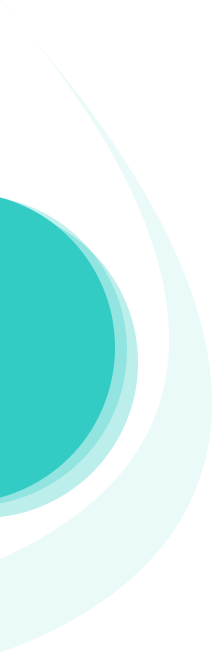
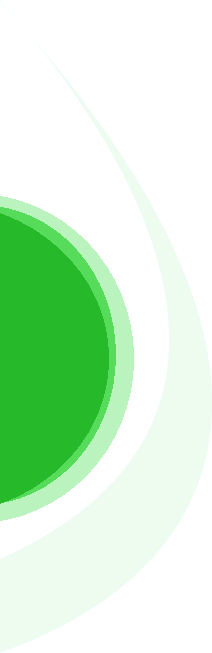
No se que hice

Changed region(s): [[0.0, 0.2757, 0.6509, 0.7963]]

diff --git a/style.css b/style.css
@@ -1,16 +1,16 @@
-
- .footer{
+body {
+    background-color: black;
+}
+.footer{
     display:flex;
     justify-content:space-between; 
-    background-color:rgb(77, 75, 75) ;
+    background-color:rgb(65, 65, 65) ;
     color: white;
- }
- .izquierda{
+}
+.izquierda{
     align-items:flex-start;
     margin-left: 10px;
- }
-
-
+}
 .derecha{
     margin-right: 10px ;
     align-content:flex-end;
@@ -20,10 +20,10 @@
     background-color: rgb(0, 0, 0);
     overflow: hidden;
     border-radius: 8px;
-    border-bottom: 3px solid rgb(0, 56, 49);
+    border-bottom: 3px solid rgb(0, 148, 126);
 }
 .navbar-self a {
-    color: rgb(238, 238, 238);
+    color: rgb(0, 148, 126);
     float: left;
     text-align: center;
     padding: 14px 16px;
@@ -32,15 +32,15 @@
     font-family:cursive;
 }
 .navbar-self a:hover {
-    background-color: rgb(0, 77, 66);
-    color: rgb(180, 255, 244);
+    background-color: rgb(0, 148, 126);
+    color: rgb(0, 148, 126);
 }
 #focus {
-    background-color: rgb(0, 70, 61);
-    color: rgb(180, 255, 244);
+    background-color: rgb(0, 107, 5);
+    color: rgb(0, 148, 126);
 }
 h1 {
-    color:rgb(0, 163, 139);
+    color:rgb(0, 148, 126);
     margin-left: 1em;
 }
 iframe {
@@ -48,3 +48,4 @@ iframe {
     width: 90%;
     margin: 0% 5% 0% 5%;
 }
+

diff --git a/templatemo_563_seo_dream/index.html b/templatemo_563_seo_dream/index.html
@@ -55,7 +55,7 @@ https://templatemo.com/tm-563-seo-dream
           <nav class="main-nav">
             <!-- ***** Logo Start ***** -->
             <a href="index.html" class="logo">
-              <h4>SEO Dream <img src="assets/images/logo-icon.png" alt=""></h4>
+              <h4>Forsyx <img src="assets/images/logo-icon.png" alt=""></h4>
             </a>
             <!-- ***** Logo End ***** -->
             <!-- ***** Menu Start ***** -->
@@ -87,7 +87,7 @@ https://templatemo.com/tm-563-seo-dream
               <div class="left-content header-text wow fadeInLeft" data-wow-duration="1s" data-wow-delay="1s">
                 <div class="row">
                   <div class="col-lg-12">
-                    <h2>SEO &amp; Digital Marketing Agency</h2>
+                    <h2>Forsyx Cooperative</h2>
                   </div>
                   <div class="col-lg-12">
                   </div>

diff --git a/templatemo_563_seo_dream/assets/css/templatemo-seo-dream.css b/templatemo_563_seo_dream/assets/css/templatemo-seo-dream.css
@@ -899,7 +899,6 @@ Banner Style
 }
 
 .main-banner .left-content h2 {
-  border-top: 1px solid #eee;
   margin-top: 30px;
   padding-top: 20px;
   margin-bottom: 45px;
@@ -908,9 +907,9 @@ Banner Style
   color: #2a2a2a;
   line-height: 72px;
   background: #FA9D4D;
-  background: -webkit-linear-gradient(to right, #FA9D4D 0%, #FF4F6B 100%);
-  background: -moz-linear-gradient(to right, #FA9D4D 0%, #FF4F6B 100%);
-  background: linear-gradient(to right, #FA9D4D 0%, #FF4F6B 100%);
+  background: -webkit-linear-gradient(to right, #8d4200 0%, #614fff 100%);
+  background: -moz-linear-gradient(to right, #4d58fa 0%, #4fe5ff 100%);
+  background: linear-gradient(to right, #b890e0  0%,#b890b8 100%);
   -webkit-background-clip: text;
   -webkit-text-fill-color: transparent;
 }

diff --git a/proyectos.html b/proyectos.html
@@ -20,7 +20,7 @@
             About Us
         </a>
     </div>
-    <div class="embed-responsive">
+    <div class="embed-responsive bg-dark">
         <h1 class="h2">Proyecto de Farmacias de turno en Villa la Angostura</h1>
         <iframe src='http://turnosvla.fiqus.coop' class="embed-responsive-item"></iframe>
     </div>
